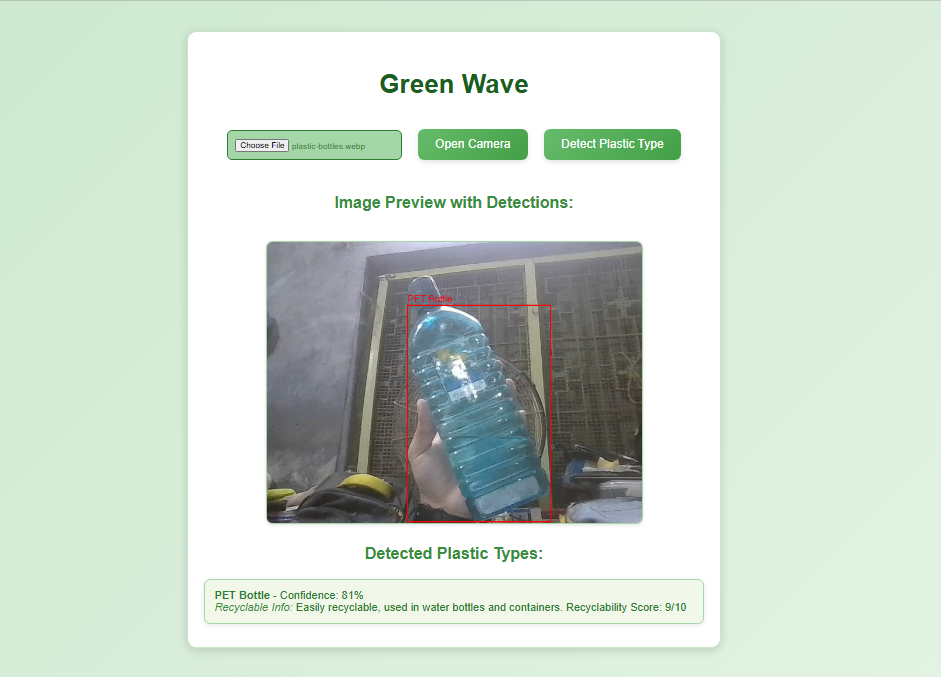
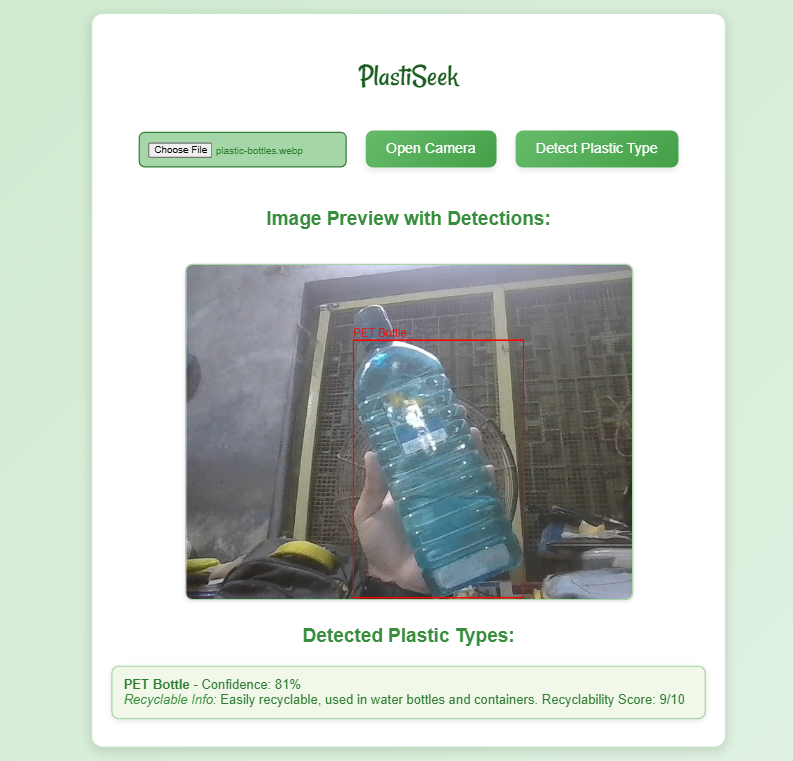
Name and Images Updated

diff --git a/src/App.css b/src/App.css
@@ -1,3 +1,17 @@
+@import url("https://fonts.googleapis.com/css2?family=Mrs+Saint+Delafield&family=Rancho&display=swap");
+
+.mrs-saint-delafield-regular {
+  font-family: "Mrs Saint Delafield", cursive;
+  font-weight: 400;
+  font-style: normal;
+}
+
+.rancho-regular {
+  font-family: "Rancho", cursive;
+  font-weight: 400;
+  font-style: normal;
+}
+
 /* General page styling */
 body {
   font-family: "Arial", sans-serif;

diff --git a/src/App2.js b/src/App2.js
@@ -162,7 +162,7 @@ function App() {
 
   return (
     <div className="App">
-      <h2>Green Wave</h2>
+      <h2 className="rancho-regular">PlastiSeek</h2>
       <div>
         <form onSubmit={handleSubmit}>
           <input type="file" accept="image/*" onChange={handleFileChange} />
